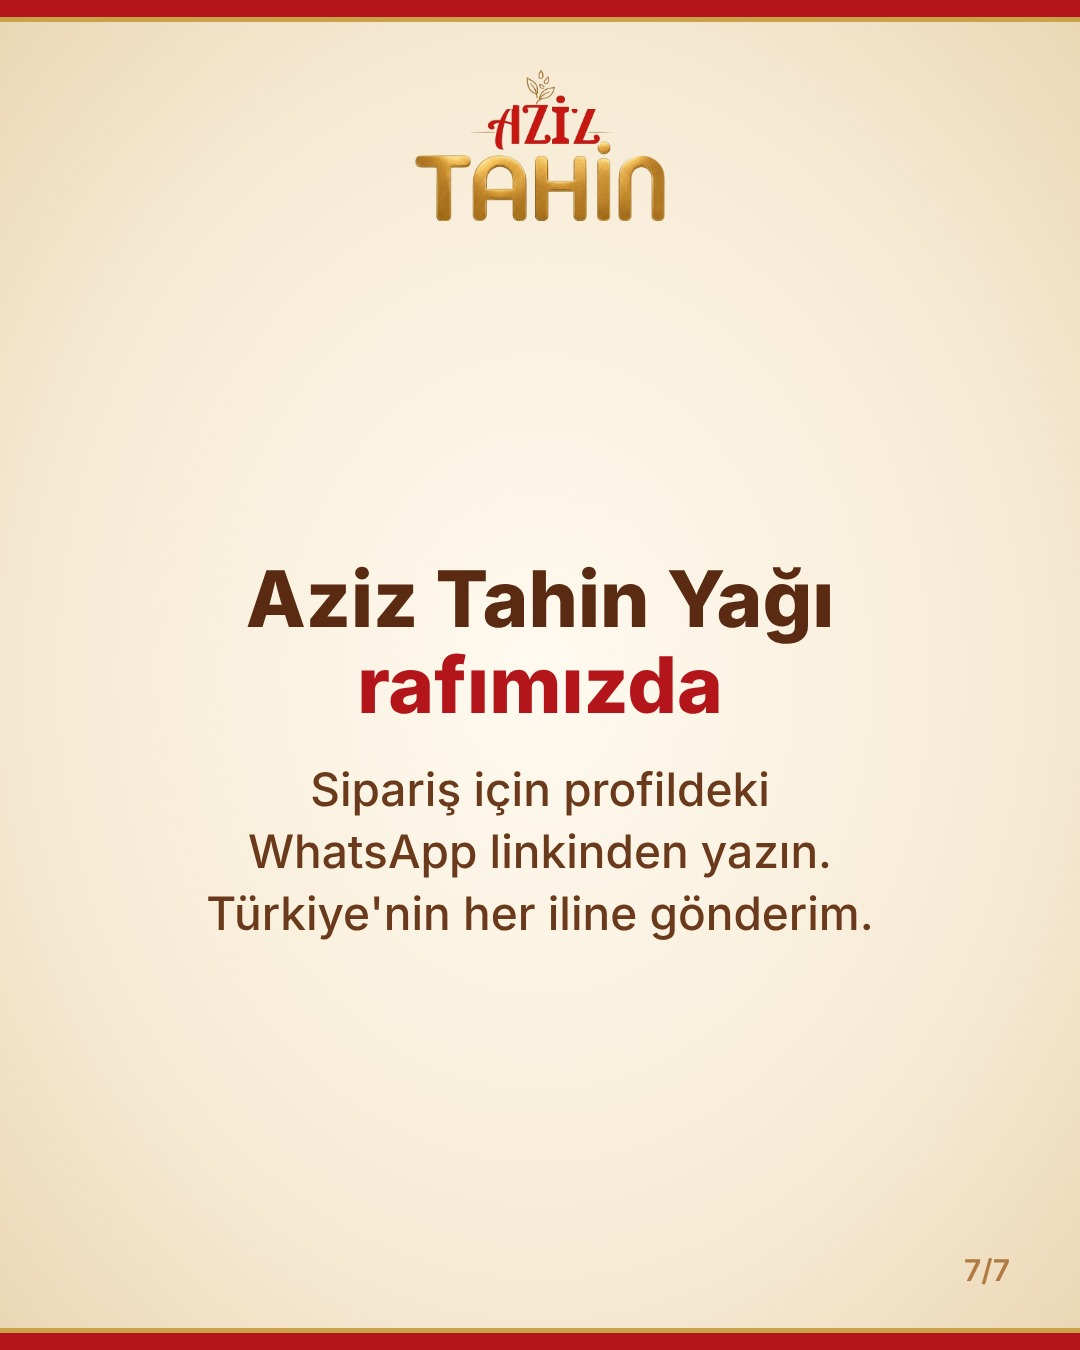
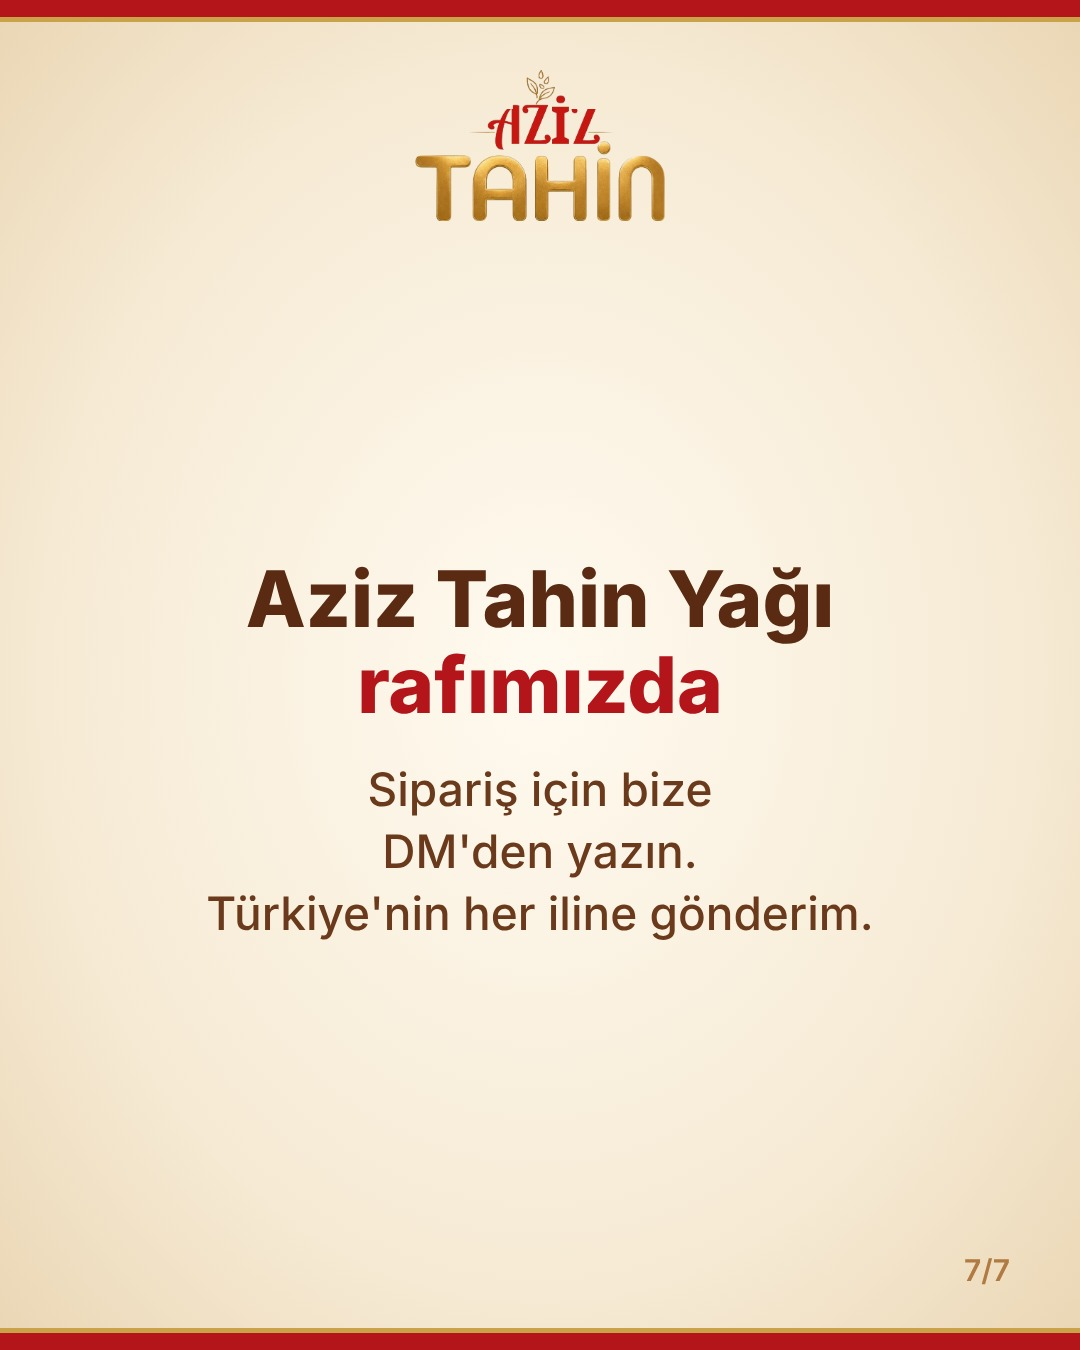
Sipariş çağrısı DM'e çevrildi (carousel, hikâye, tarif hikâyeleri, açıklamalar)
Claude-Session: https://claude.ai/code/session_01LbgBc4wPXWRgFMDuR8TYQV

Changed region(s): [[0.2139, 0.56, 0.7639, 0.6533]]

diff --git a/.claude/instagram/yayin/gorsel-uretici/tarifhikaye.py b/.claude/instagram/yayin/gorsel-uretici/tarifhikaye.py
@@ -34,7 +34,7 @@ ul,ol{padding-left:1.15em}li{margin:.12em 0;line-height:1.32}p{line-height:1.35;
 .cover{position:absolute;top:420px;left:80px;right:80px;bottom:300px;display:flex;flex-direction:column;align-items:center;justify-content:center;text-align:center;gap:34px}
 """
 FIT="<script>let c=document.getElementById('c');let s=46;c.style.fontSize=s+'px';while(c.scrollHeight>c.clientHeight&&s>24){s--;c.style.fontSize=s+'px'}document.title=s</script>"
-def page(inner,fit=True): return f"<!doctype html><html><head><meta charset='utf-8'><style>{CSS}</style></head><body><div class='band top'></div><img class='logo' src='logo.png'>{inner}<div class='foot'>Sipariş için WhatsApp'tan yazabilirsiniz <span class='e'>🤎</span></div><div class='band bot'></div>{FIT if fit else ''}</body></html>"
+def page(inner,fit=True): return f"<!doctype html><html><head><meta charset='utf-8'><style>{CSS}</style></head><body><div class='band top'></div><img class='logo' src='logo.png'>{inner}<div class='foot'>Sipariş için bize DM'den yazabilirsiniz <span class='e'>🤎</span></div><div class='band bot'></div>{FIT if fit else ''}</body></html>"
 frames=[("tarif-0-kapak",page("<div class='cover'><div style='font-size:44px;font-weight:600;letter-spacing:8px;color:#b07a42'>ÖNE ÇIKAN</div><div style='font-size:120px;font-weight:900;color:#b3151b;line-height:1'>Tarifler</div><div style='font-size:56px;font-weight:700'>Aziz Tahin ile<br>5 tarif</div><div style='font-size:42px;color:#6b3a1c'>Kaydırın, kaydedin <span class='e'>🥄</span></div></div>",False))]
 for p in parts:
     n,t,meta,b=parse(p)

diff --git a/.claude/instagram/voice.md b/.claude/instagram/voice.md
@@ -69,15 +69,17 @@ Bu açıklamalarda eksik olanlar (bundan sonra yapılmayacak):
 
 ## Satış dili
 
-- Her içerik tek bir somut çağrıyla biter: "Sipariş için profildeki WhatsApp
-  linkinden yazın". Tarif içeriklerinde bunun yerine "Kaydedin" denebilir.
+- Her içerik tek bir somut çağrıyla biter: "Sipariş için bize DM'den yazın".
+  WhatsApp, Trendyol, dükkan ve web sitesi yalnızca "nasıl sipariş verilir"
+  içeriklerinde birlikte listelenir; hikâyelerde ara sıra Trendyol link
+  çıkartması kullanılabilir. Tarif içeriklerinde bunun yerine "Kaydedin" denebilir.
   "TAHİN yazın" gibi anahtar kelime çağrıları kullanılmaz (otomasyon kapalı).
 - İlk cümle ürünü değil, izleyicinin durumunu anlatır: bir soru, bir yanlış
   bilinen ya da bir sofra anı. Ürün ikinci cümlede gelir.
 - Özellik değil, kazanç söylenir: "27 g protein" tek başına kalmaz, "kahvaltıda
   iki kaşıkla güne tok başlarsınız" gibi bir sonuca bağlanır.
 - Satın almanın kolay olduğu hatırlatılır: Türkiye'nin her iline gönderim,
-  WhatsApp'tan sipariş, Trendyol.
+  DM'den sipariş, Trendyol.
 - Sıcaklık kaybolmaz: "afiyet olsun", "sofranıza" gibi ifadeler kalır, ama
   çağrının yerine geçmez.
 
@@ -96,8 +98,8 @@ sipariş verdirmektir.
   voice.md'deki gerçek bir kanıt.
 - **Sondan bir önceki slayt:** İtirazı kaldırır ya da güven verir ("Çoğu
   müşterimiz tekrar alıyor", "Türkiye'nin her iline gönderim").
-- **Son slayt:** Tek ve net sipariş çağrısı: "Sipariş için profildeki
-  WhatsApp linkinden yazın." Siparişin kolay olduğu hatırlatılır.
+- **Son slayt:** Tek ve net sipariş çağrısı: "Sipariş için bize DM'den
+  yazın." Siparişin kolay olduğu hatırlatılır.
   Anahtar kelime çağrısı (TAHİN) kullanılmaz.
 - **Açıklama:** İlk satır merak açar ve "... devamı" kesiminden önce biter;
   sonda aynı sipariş çağrısı, 3 hashtag.
@@ -166,5 +168,6 @@ asla uydurmaz.
   - Web sitesi
   - WhatsApp konuşması
 
-  İçeriklerde "profildeki linkten" denir; hangi link kastediliyorsa adıyla
-  söylenir (ör. "profildeki WhatsApp linkinden yazın").
+  Varsayılan sipariş çağrısı DM'dir ("Sipariş için bize DM'den yazın").
+  Bir link kastediliyorsa adıyla söylenir (ör. "profildeki Trendyol
+  linkinden").
